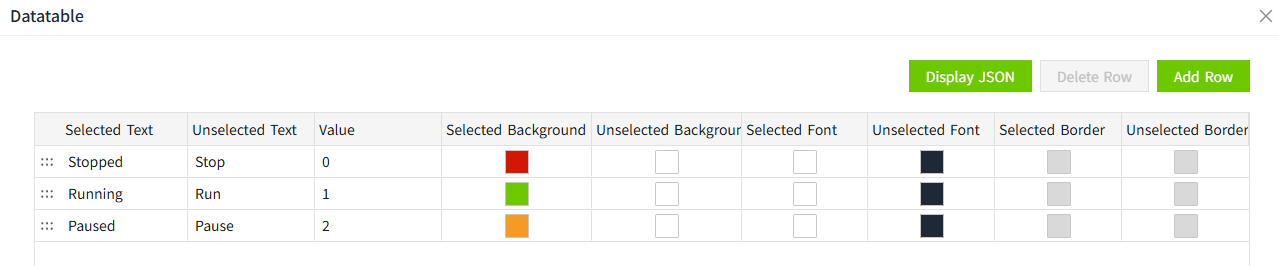
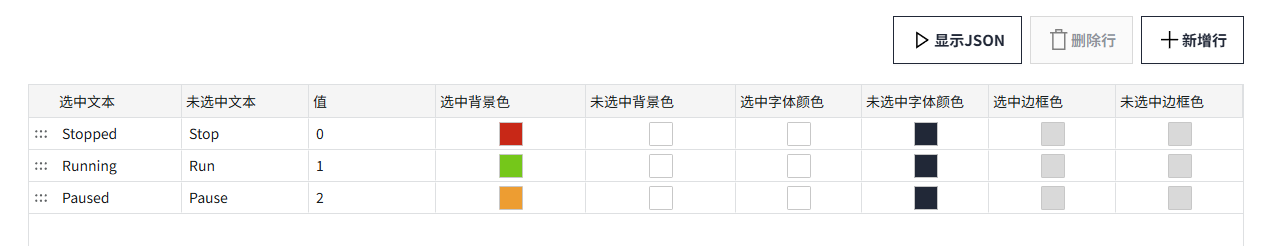
1

Changed region(s): [[0.0305, 0.1138, 0.9765, 0.9106], [0.7019, 0.0285, 1.0, 0.0854], [0.0, 0.0285, 0.0915, 0.0854]]

diff --git a/docs/2d-visualization/controls/button/multi-state-button.md b/docs/2d-visualization/controls/button/multi-state-button.md
@@ -1,45 +1,43 @@
 # Multi-State Button
 
-Multi-State Button is a type of button control that can switch between more than two states. Each state can be configured with its own unique appearance (color, text) and corresponding action logic.
+Multi-State Button 是一种可在两个以上状态之间切换的按钮控件。每个状态都可以配置独立的外观（颜色、文字） 和对应的动作逻辑。
 
 ![alt text](35.png)
 
-**Properties**
+**属性**
 
-| **Name**   | **Description**   |
-|------------|-----------|
-| Name | The name of this control. |
-| X | The distance between the left side of the control and the left side of the canvas.  |
-| Y  | The distance between the top of the control and the top of the canvas.  |
-| W | The width of the control.   |
-| H   | The height of the control. |
-| ![alt text](32.png)| The rounded corner curvature of the control. |
-| Current Value     | Match this value with the status value under the "Button" category. Based on the matching result, display the appearance of the corresponding button state. |
-| Control Value | Bind to a property that controls the status. When the corresponding button is pressed, the current value of the button will be written to the property bound to "Data" -> "Control Value". Usually, the current value and the control value will be bound to the same property.  |
-| Border | Set the border width.   |
-| Button->States    | Set the appearance style of the control when it is in different state values. You can add your own states as needed.  <br>![alt text](36.png) <br>- **Selected Text**: The text content displayed when the button is in the selected state.  <br>- **Unselected Text**: The text content displayed when the button is in the unselected state. <br>- **Value**: The value of the state. <br>- **Selected Background**: The background color when the button is in the selected state. <br>- **Unselected Background**: The background color when the button is in the unselected state.   <br>- **Selected Font**: The font color when the button is in the selected state. <br>- **Unselected Font**: The font color when the button is in the unselected state.  <br>- **Selected Border**: The border color when the button is in the selected state. <br>- **Unselected Border**: The border color when the button is in the unselected state.  |
-| Button->Style  | Used to set whether the button is displayed horizontally or vertically.    |
-| Button->Button Gap    | Set the spacing between two adjacent buttons, in units of px.   |
-| Font   | Set the font for text content. Including font type, font size, font color, bold, italic, underline, horizontal alignment, and vertical alignment.   |
+| **名称** | **描述** |
+|:-------------------|:---------------------|
+| 名字 | 此控件的名称。|
+| X  | 控件左侧距画布左侧的距离，单位px。  |
+| Y | 控件顶部距画布顶部的距离，单位px。 |
+| W | 控件的宽度，单位px。 |
+| H  | 控件的高度，单位px。|
+| ![alt text](32.png) | 控件的圆角曲率。|
+| 当前值| 将该值去和“按钮”分类下的状态值进行匹配，根据匹配到的结果，显示对应状态的按钮外观。|
+| 控制值 | 绑定到一个控制状态的属性。当对应按钮被按下时，当前按钮对应的值会被写入“数据”->“控制值”绑定的属性中。通常情况下，当前值和控制值会绑定同一属性。 |
+| 边框  | 设置控件的边框粗细。|
+| 按钮->状态 | 设置控件在不同状态值时的外观样式。可以根据需要，自行添加状态。 <br> ![alt text](36.png)  | 选中文本       | 按钮处于选中状态时显示的文本内容。   | |----------------|-------------------------------------| | 未选中文本     | 按钮处于未选中状态时显示的文本内容。 | | 值             | 按钮对应的值。                       | | 选中背景色     | 按钮处于选中状态时的背景色。         | | 未选中背景色   | 按钮处于未选中状态时的背景色。       | | 选中字体颜色   | 按钮处于选中状态时的字体颜色。       | | 未选中字体颜色 | 按钮处于未选中状态时的字体颜色。     | | 选中边框色     | 按钮处于选中状态时的边框色。         | | 未选中边框色   | 按钮处于未选中状态时的边框色。       | |
+| 按钮->样式 | 设置按钮是水平显示还是垂直显示。|
+| 按钮->按钮间距 | 设置相邻2个按钮之间的间距，单位px。|
+| 字体 | 设置文本内容的字体。包括字体型号、字体大小、粗体、倾斜、水平对齐方式、垂直对齐方式。  |
 
-**Event**
+**动作**
 
-Allows you to perform specific events based on certain conditions. See the full description of each event on the **2D Visualization-> Event** page.
+允许您基于某种条件执行特定的动作。请参阅“[动作](../../event/index.md)”页上各种动作的完整描述。
 
-**Example**
+**示例**
 
-The running status of the device can be obtained through the Multi-State button control.
+可通过Multi-State button控件设备的运行状态。
 
-1. Add a Multi-State button control to the page.
-2. The current value is bound to a numeric tag: "Demo:status". This tag is writable.
-3. The control value is also bound to the tag: "Demo:status".
-4. Button properties are as follows: 
+1. 在画面上添加一个Multi-State button控件
+2. 当前值绑定到一个数值型变量：@Demo:status。该变量可写。
+3. 控制值也绑定到变量：@Demo:status
+4. 按钮属性如下：
 
     ![alt text](37.png)
 
-5. Click the button on the running page to control the running status of the device and view the button style.
+5. 在运行页面点击按钮来控制设备的运行状态，查看按钮样式。
 
-    ![multi-state-button](../../../assets/images/multi-state-button.gif)
-
-
+    ![alt text](5.gif)
 
